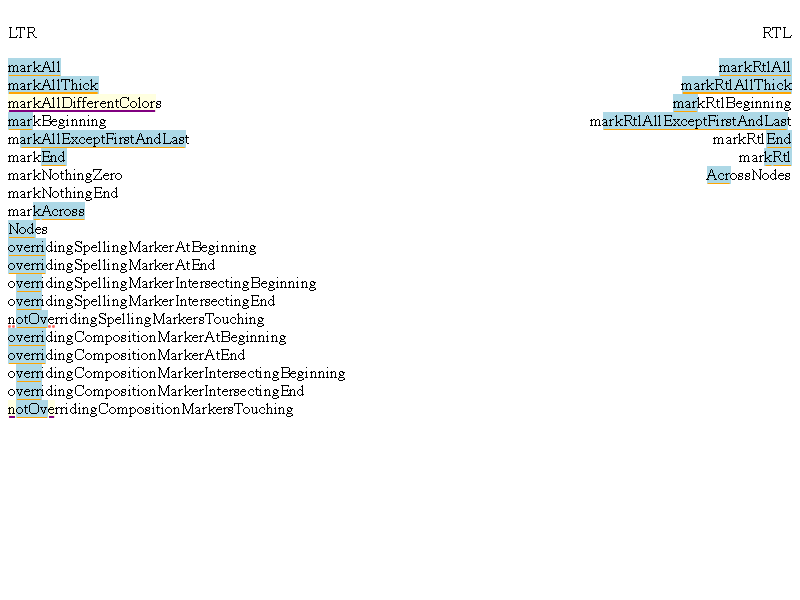
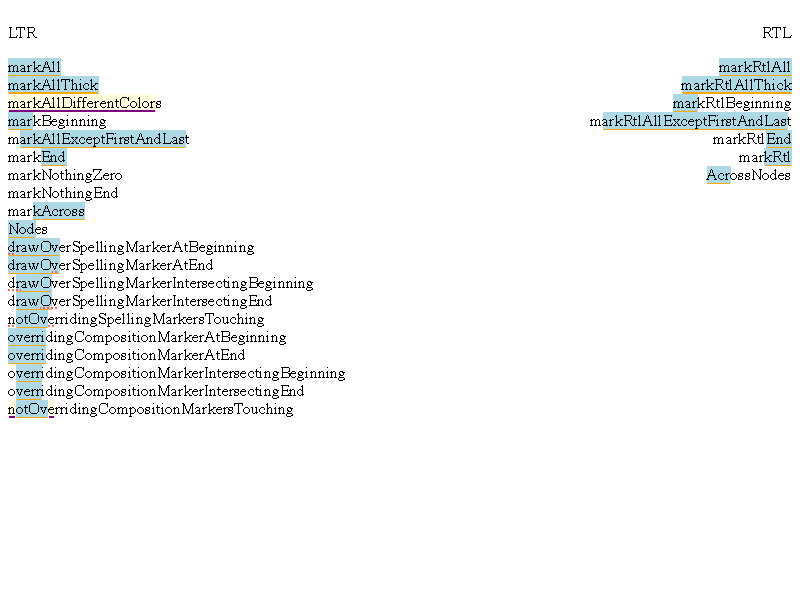
Suggestion markers no longer override spelling markers
Bug: 1321114
Commit-Queue: Stephen Chenney <schenney@chromium.org>
Cr-Commit-Position: refs/heads/main@{#1176268}
NOKEYCHECK=True
GitOrigin-RevId: 0983db3775fc1f40225308a8dbcfb6c86a6794f1

Changed region(s): [[0.0, 0.39, 0.4062, 0.51]]

diff --git a/blink/web_tests/paint/markers/suggestion-marker-basic.html b/blink/web_tests/paint/markers/suggestion-marker-basic.html
@@ -23,10 +23,10 @@
     <div contenteditable id="markNothingZero">markNothingZero</div>
     <div contenteditable id="markNothingEnd">markNothingEnd</div>
     <div contenteditable id="markAcrossNodes"><div>mark<span>Across</span></div><div>Nodes</div></div>
-    <div contenteditable id="overridingSpellingMarkerAtBeginning">overridingSpellingMarkerAtBeginning</div>
-    <div contenteditable id="overridingSpellingMarkerAtEnd">overridingSpellingMarkerAtEnd</div>
-    <div contenteditable id="overridingSpellingMarkerIntersectingBeginning">overridingSpellingMarkerIntersectingBeginning</div>
-    <div contenteditable id="overridingSpellingMarkerIntersectingEnd">overridingSpellingMarkerIntersectingEnd</div>
+    <div contenteditable id="drawOverSpellingMarkerAtBeginning">drawOverSpellingMarkerAtBeginning</div>
+    <div contenteditable id="drawOverSpellingMarkerAtEnd">drawOverSpellingMarkerAtEnd</div>
+    <div contenteditable id="drawOverSpellingMarkerIntersectingBeginning">drawOverSpellingMarkerIntersectingBeginning</div>
+    <div contenteditable id="drawOverSpellingMarkerIntersectingEnd">drawOverSpellingMarkerIntersectingEnd</div>
     <div contenteditable id="notOverridingSpellingMarkersTouching">notOverridingSpellingMarkersTouching</div>
     <div contenteditable id="overridingCompositionMarkerAtBeginning">overridingCompositionMarkerAtBeginning</div>
     <div contenteditable id="overridingCompositionMarkerAtEnd">overridingCompositionMarkerAtEnd</div>
@@ -96,17 +96,17 @@ onload = runAfterLayoutAndPaint(function() {
     highlightAcrossNodes(markRtlAcrossNodes.childNodes[0].firstChild, 3,
     markRtlAcrossNodes.childNodes[1].firstChild, 3);
 
-    addSuggestionMarkerSimple(overridingSpellingMarkerAtBeginning, 0, 6);
-    addSpellingMarker(overridingSpellingMarkerAtBeginning, 0, 1);
+    addSuggestionMarkerSimple(drawOverSpellingMarkerAtBeginning, 0, 6);
+    addSpellingMarker(drawOverSpellingMarkerAtBeginning, 0, 1);
 
-    addSuggestionMarkerSimple(overridingSpellingMarkerAtEnd, 0, 6);
-    addSpellingMarker(overridingSpellingMarkerAtEnd, 5, 6);
+    addSuggestionMarkerSimple(drawOverSpellingMarkerAtEnd, 0, 6);
+    addSpellingMarker(drawOverSpellingMarkerAtEnd, 5, 6);
 
-    addSuggestionMarkerSimple(overridingSpellingMarkerIntersectingBeginning, 1, 5);
-    addSpellingMarker(overridingSpellingMarkerIntersectingBeginning, 0, 2);
+    addSuggestionMarkerSimple(drawOverSpellingMarkerIntersectingBeginning, 1, 5);
+    addSpellingMarker(drawOverSpellingMarkerIntersectingBeginning, 0, 2);
 
-    addSuggestionMarkerSimple(overridingSpellingMarkerIntersectingEnd, 1, 5);
-    addSpellingMarker(overridingSpellingMarkerIntersectingEnd, 4, 6);
+    addSuggestionMarkerSimple(drawOverSpellingMarkerIntersectingEnd, 1, 5);
+    addSpellingMarker(drawOverSpellingMarkerIntersectingEnd, 4, 6);
 
     addSuggestionMarkerSimple(notOverridingSpellingMarkersTouching, 1, 5);
     addSpellingMarker(notOverridingSpellingMarkersTouching, 0, 1);
